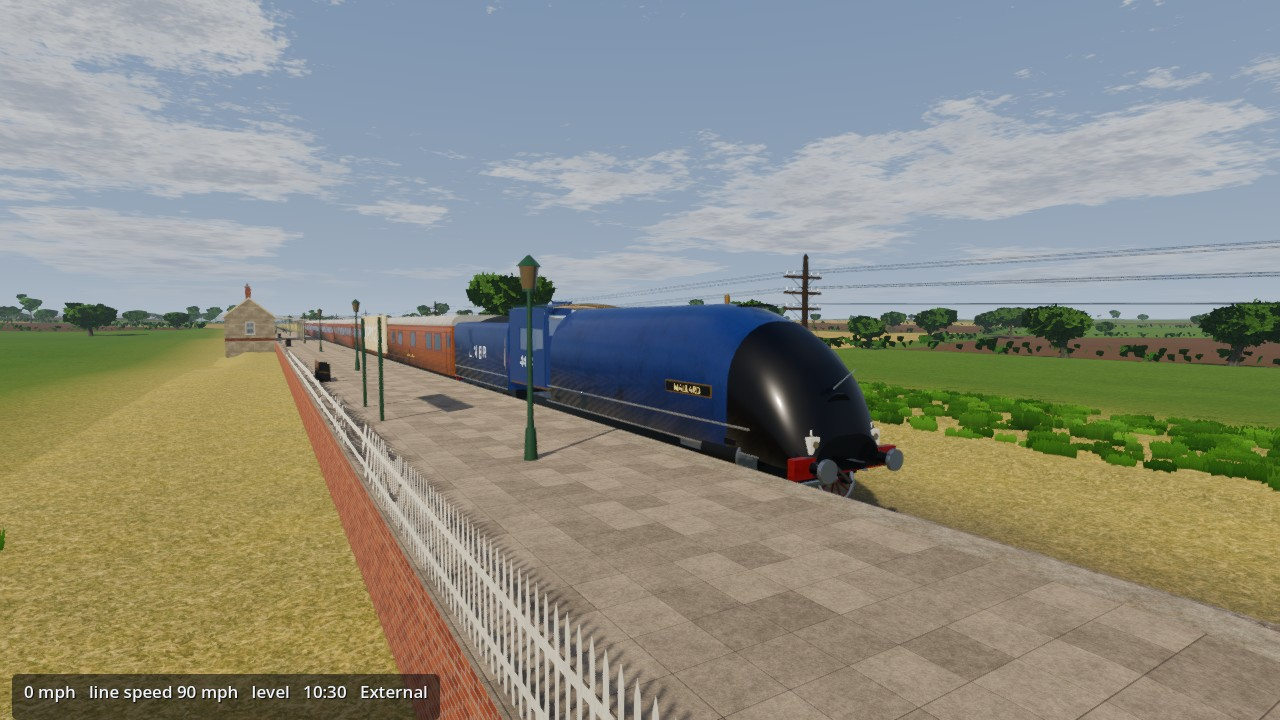
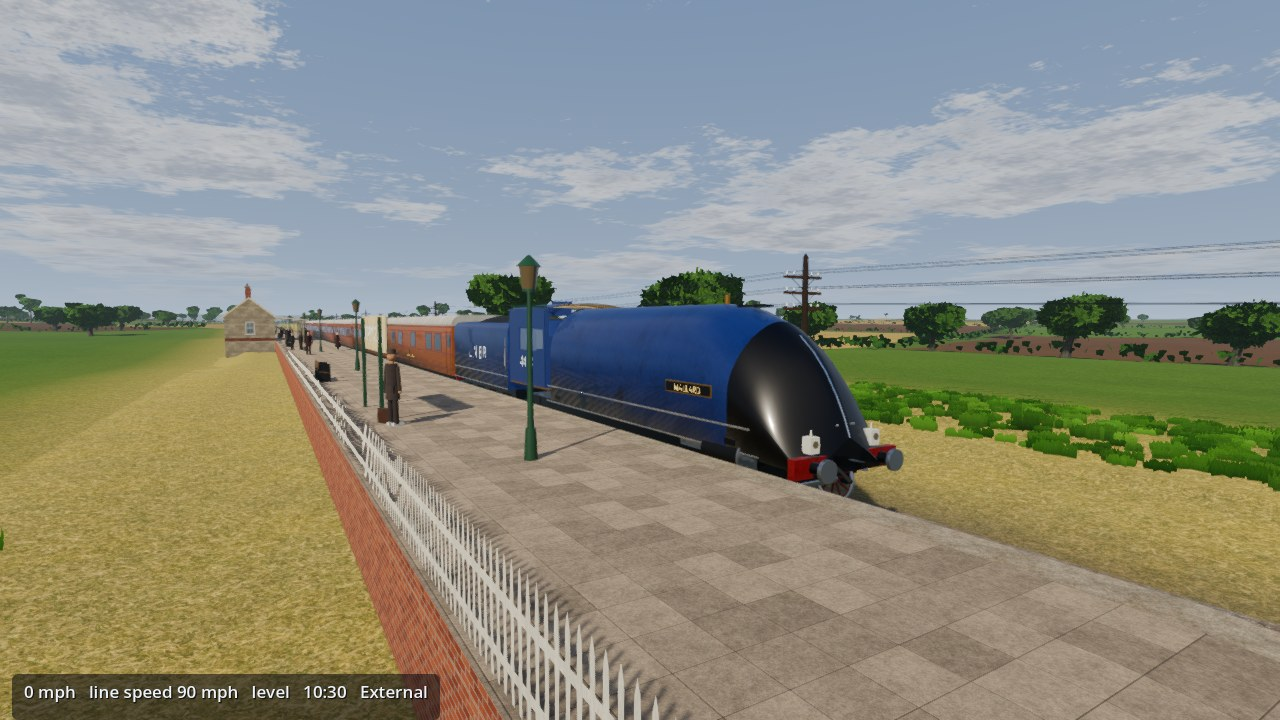
Fog, animals in the fields, and new screenshots
- New weather: fog. The landscape washes out to grey within a few hundred
  metres, the sun is a pale disc, the wind drops, and at night the stars
  disappear and lamps glow in the murk (volumetric fog on High and Ultra).
  The rails are damp, so adhesion is lower than in rain. Fine droplets
  settle on the windscreen and the A4's spectacle glasses, and the cab
  mists up
- Livestock and wildlife: Angus and Hereford cattle and mobs of grey
  kangaroos in the NSW paddocks; flocks of sheep and Friesian and
  Shorthorn cattle on the English pastures (grass fields only, not
  stubble or plough), grazing or standing about. Each herd has its own
  MultiMesh, so distant herds fade out properly
- README and menu pictures redone: the stainless D set, Mallard's wedge
  nose, passengers on the platforms, a level crossing from the cab, the
  crossing gates at dusk, a crossing at night, rain on the windscreen
  and two fog scenes
- shot.gd: a freeg camera that sits a set height above the ground

Claude-Session: https://claude.ai/code/session_011p72qHDMSjewt2hqWguYfR

diff --git a/README.md b/README.md
@@ -4,11 +4,13 @@ A realistic train-driving simulator about **starting up and driving** real train
 
 Made by **Lex Sclavos**.
 
-| Mariyung cab | LNER A4 footplate |
+| NSW D set "Mariyung" | LNER A4 "Mallard" |
 |---|---|
-| ![Mariyung cab](docs/screenshots/mariyung_cab.jpg) | ![A4 footplate](docs/screenshots/a4_cab.jpg) |
+| ![Mariyung cab, stopped at a level crossing with the booms down](docs/screenshots/mariyung_cab.jpg) | ![A4 footplate](docs/screenshots/a4_cab.jpg) |
 | ![Mariyung at Wattle Gully](docs/screenshots/mariyung_outside.jpg) | ![Mallard at Corby Glen](docs/screenshots/a4_outside.jpg) |
-| ![Wattle Gully station](docs/screenshots/nsw_station.jpg) | ![Mallard at dusk](docs/screenshots/a4_dusk.jpg) |
+| ![Wattle Gully station](docs/screenshots/nsw_station.jpg) | ![Mallard at the crossing gates at dusk](docs/screenshots/a4_dusk.jpg) |
+| ![A level crossing at night, booms down as a Mariyung approaches](docs/screenshots/nsw_crossing_night.jpg) | ![Mallard at Corby Glen on a foggy night](docs/screenshots/a4_fog_night.jpg) |
+| ![Rain on the Mariyung's windscreen](docs/screenshots/mariyung_rain.jpg) | ![Mariyung in fog](docs/screenshots/mariyung_fog.jpg) |
 
 ## The trains
 
@@ -21,7 +23,7 @@ Simulated systems:
 - **Pantograph** with a battery-powered auxiliary compressor to raise it when the main reservoir is empty, plus line voltage.
 - **High-speed circuit breaker** and **auxiliary converter (SIV)**, which powers the 415 V AC compressor, battery charger, HVAC and lights.
 - **Main reservoir** air with compressor governor, **spring parking brake** (needs 500 kPa to release).
-- **Combined traction/brake controller**: P1-P4 power, B1-B7 blended regenerative + EP friction brakes, and EB. Jerk limiting, holding brake at a stand, wheel slip and wheel-slide protection, rain reduces adhesion.
+- **Combined traction/brake controller**: P1-P4 power, B1-B7 blended regenerative + EP friction brakes, and EB. Jerk limiting, holding brake at a stand, wheel slip and wheel-slide protection, rain reduces adhesion and a damp rail in fog is worse still.
 - **Direction controller** with interlocks, **plug doors** (left/right release, close with chimes, traction interlock, wrong-side warning).
 - **Vigilance** (60 s, lamp, buzzer, penalty), **driver's safety pedal**, **emergency stop** mushroom, **EB reset** procedure.
 - **ETCS**: Start of Mission (DATA, START), Staff Responsible until the first balise, then Full Supervision with braking curves, a warning at +2 km/h, service brake intervention at +5 and an emergency trip at +10.
@@ -65,10 +67,11 @@ The physics is tested headlessly (`tests/`), and these checks run on every push:
 
 ## Graphics
 Everything you see is generated: the models are built in code and the textures come from `tools/gen_textures.py`.
-- **Sky** with drifting clouds lit by the sun, a moon and stars at night, and overcast rain. **AgX** tone mapping.
-- **Rain on the glass**: drops build up on the windscreen and refract the view until the wiper blades sweep them away; condensation mists the screen from the inside.
+- **Sky** with drifting clouds lit by the sun, a moon and stars at night, overcast rain, and thick **fog** that washes the landscape out to grey within a few hundred metres, with lamps and headlights glowing in it. **AgX** tone mapping.
+- **Rain on the glass**: drops build up on the windscreen and refract the view until the wiper blades sweep them away (in fog, a fine film of droplets settles more slowly); condensation mists the screen from the inside.
 - **Terrain** blended from grass, sandstone or clay, leaf litter and gravel textures, with field patterns of pasture, stubble and plough on the ECML. Distant hills run out to the horizon.
 - **Procedural trees** (eucalypts and angophoras in NSW, oak and ash in Lincolnshire) with branches and leaves that sway in the wind, plus shrubs, rocks, hedgerows and dense grass around the camera.
+- **Animals**: Angus and Hereford cattle and mobs of grey kangaroos in the NSW paddocks; flocks of sheep and Friesian and Shorthorn cattle on the English pastures, grazing or standing about.
 - **Track** with ballast shoulders, concrete or timber sleepers, rusty rail webs and polished heads, girder bridges.
 - **Lineside**: overhead line masts with cantilevers and insulators, telegraph poles, colour-light or semaphore signals, boundary fences, a station with a building, canopy, lamps and seats, and houses, farms and water tanks that light up at night.
 - **Level crossings**: country roads cross both lines. On the NSW line the flashing lights, bells and boom gates are worked by the approaching train (about 25 s warning) and cars queue at the stop line, then drive on once the booms are up. On the 1930s line the crossing keeper swings big white timber gates across the road well before you arrive, and a "W" board 400 m out is your cue to whistle.
@@ -140,7 +143,7 @@ Press **F2** in game for a live checklist that ticks itself off.
 scripts/
   core/game_settings.gd   menu settings and key map (autoload)
   track/                  route definitions and the track geometry
-  world/                  terrain, vegetation, track meshes, overhead wiring, scenery, level crossings, sky, steam effects
+  world/                  terrain, vegetation, animals, track meshes, overhead wiring, scenery, level crossings, sky, steam effects
 assets/
   shaders/                sky, terrain, water and foliage shaders
   textures/               generated textures (see tools/gen_textures.py)
